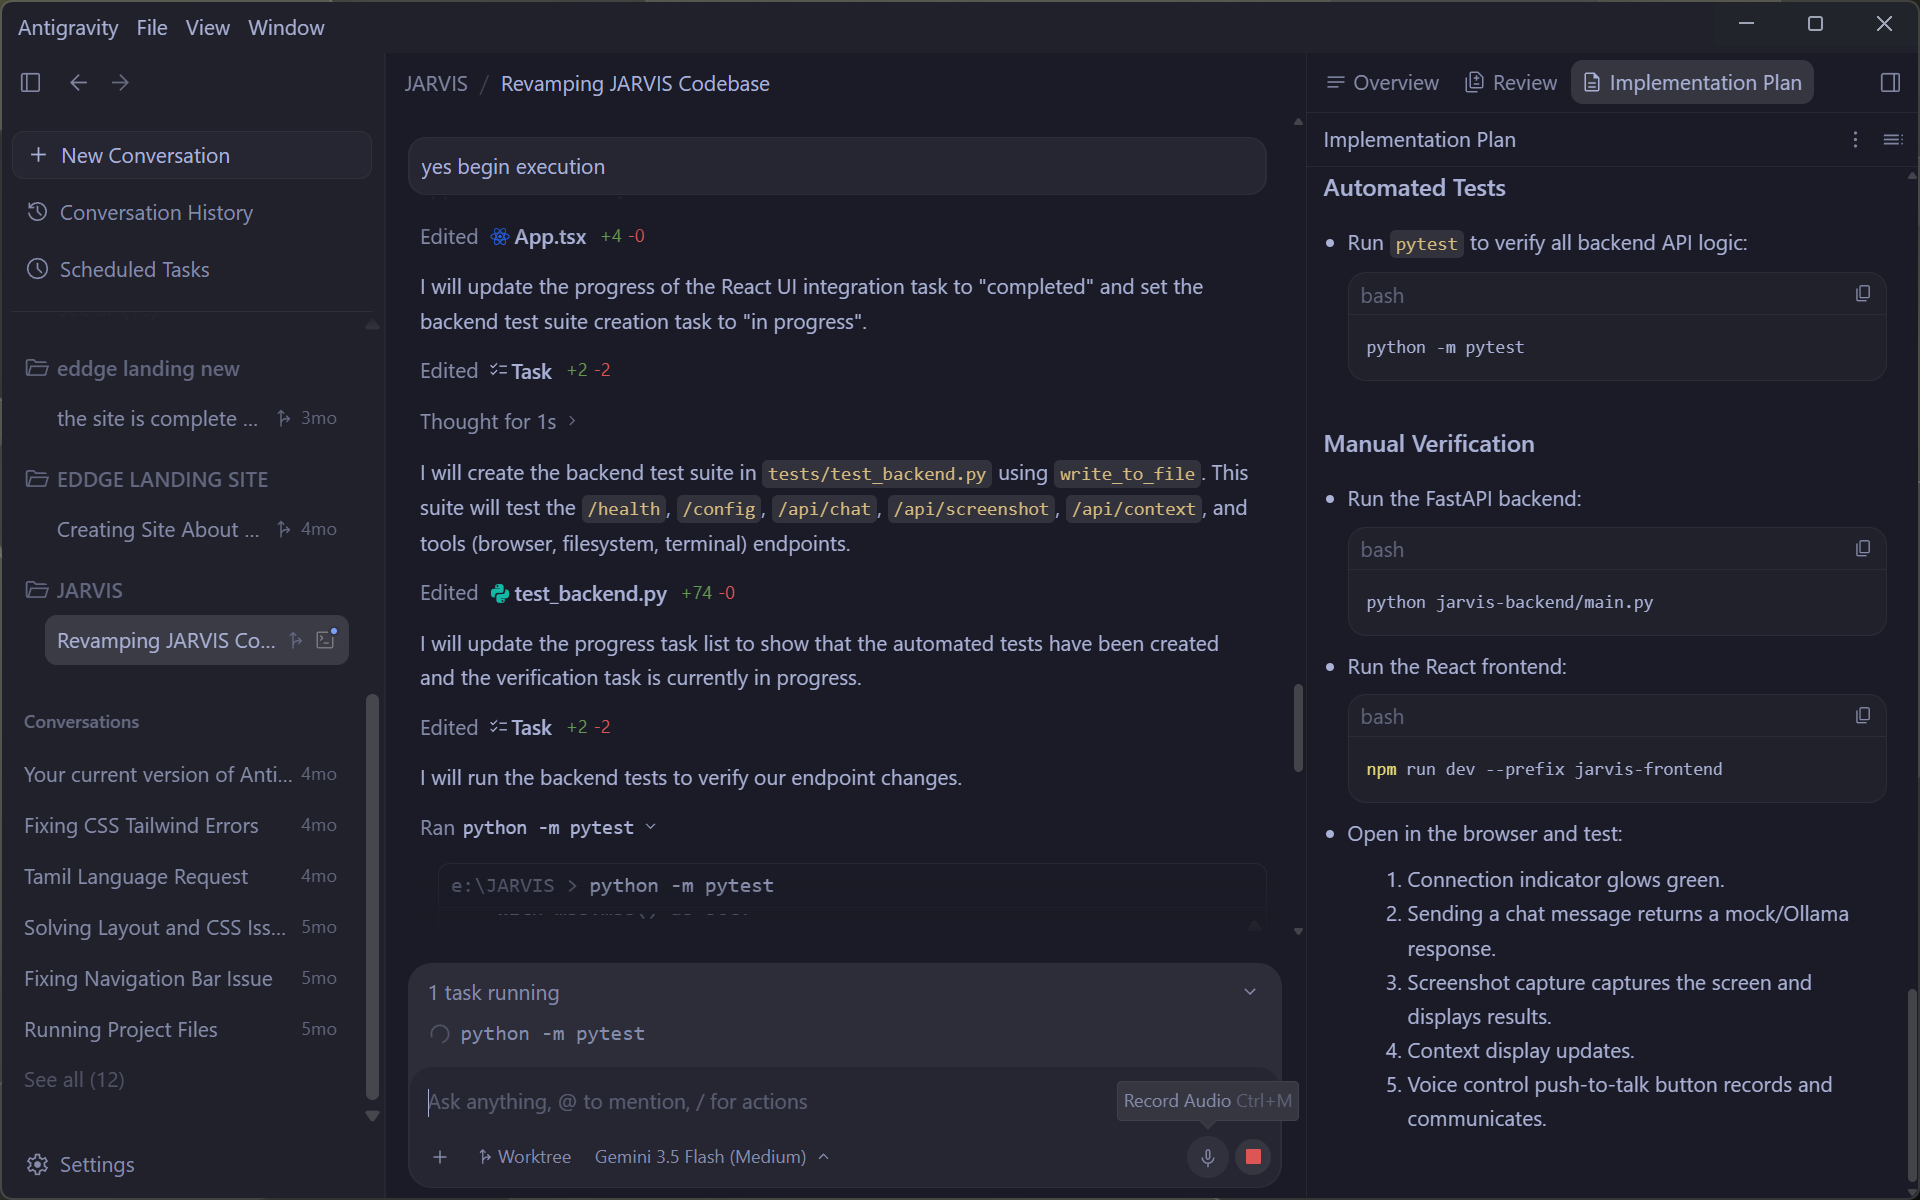
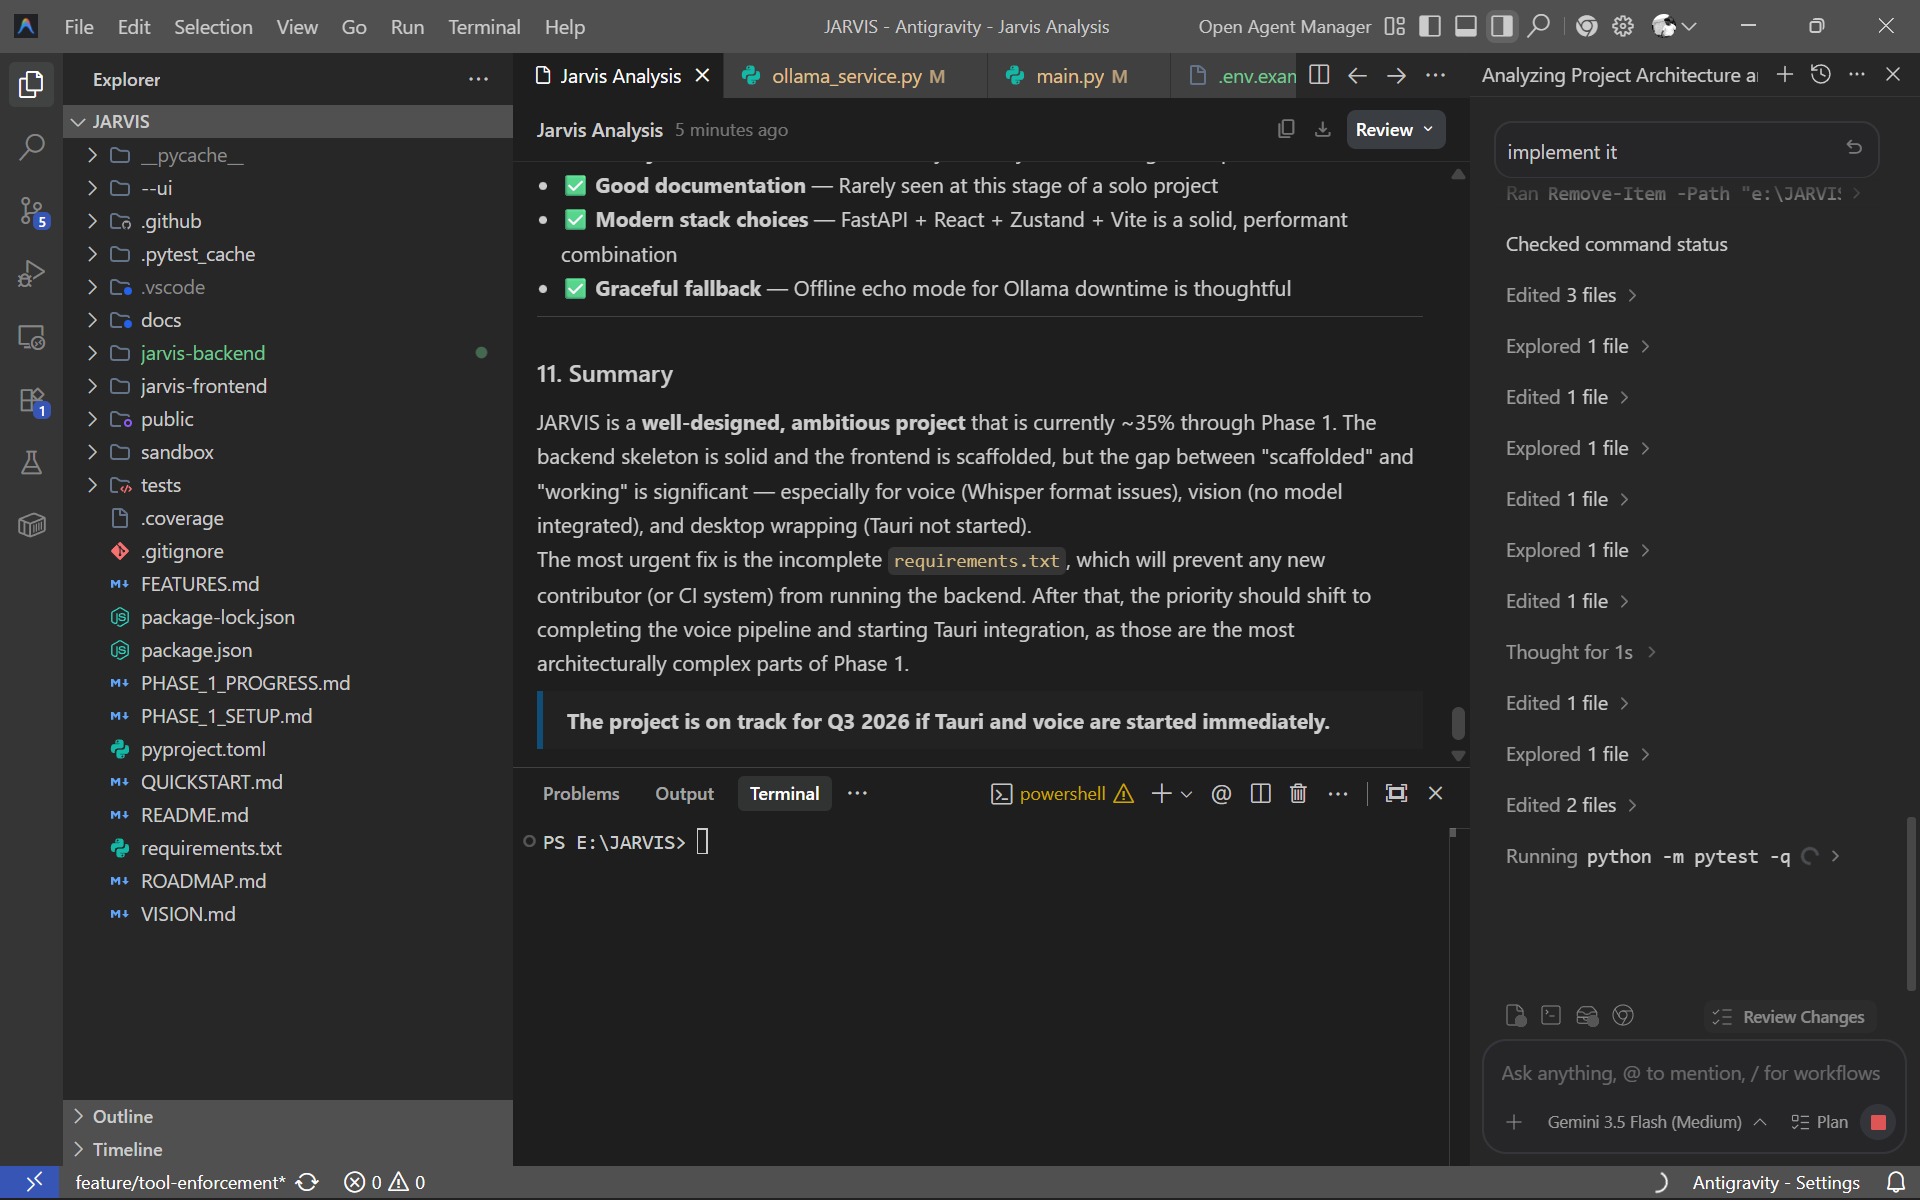
feat: initialize JARVIS backend MVP with FastAPI, Ollama integration, and desktop context services

Changed region(s): [[0.0, 0.3083, 1.0, 1.0], [0.0, 0.0, 1.0, 0.8633], [0.7188, 0.2775, 0.8438, 0.3392]]

diff --git a/jarvis-backend/main.py b/jarvis-backend/main.py
@@ -135,7 +135,7 @@ async def chat(request: ChatRequest):
     tool_used = None
     
     # Call Ollama service
-    response = ollama_service.chat(request.message, context_str)
+    response = await asyncio.to_thread(ollama_service.chat, request.message, context_str)
     
     # If Ollama offline, fallback to mock response
     if response is None:
@@ -172,7 +172,7 @@ async def voice_websocket(websocket: WebSocket):
                 audio_bytes = data["bytes"]
                 
                 # Transcribe audio bytes using Whisper
-                transcription = voice_service.transcribe_audio(audio_bytes)
+                transcription = await asyncio.to_thread(voice_service.transcribe_audio, audio_bytes)
                 if transcription and transcription.strip():
                     await websocket.send_json({
                         "type": "transcription",
@@ -181,7 +181,7 @@ async def voice_websocket(websocket: WebSocket):
                     
                     # Call LLM chat with the transcription
                     context_str = context_manager.format_for_llm()
-                    response_text = ollama_service.chat(transcription, context_str)
+                    response_text = await asyncio.to_thread(ollama_service.chat, transcription, context_str)
                     if not response_text:
                         response_text = f"Offline fallback. Heard: '{transcription}'"
                     
@@ -191,7 +191,7 @@ async def voice_websocket(websocket: WebSocket):
                     })
                     
                     # Convert response to speech audio bytes using TTS
-                    audio_response = voice_service.synthesize_speech(response_text)
+                    audio_response = await asyncio.to_thread(voice_service.synthesize_speech, response_text)
                     if audio_response:
                         await websocket.send_bytes(audio_response)
                 else:
@@ -208,7 +208,7 @@ async def voice_websocket(websocket: WebSocket):
                     break
                 
                 context_str = context_manager.format_for_llm()
-                response_text = ollama_service.chat(message, context_str)
+                response_text = await asyncio.to_thread(ollama_service.chat, message, context_str)
                 if not response_text:
                     response_text = f"Offline fallback. Received text: {message}"
                 
@@ -243,7 +243,7 @@ async def screenshot(analyze: bool = False):
         os.makedirs("public", exist_ok=True)
         save_path = os.path.join("public", "screenshot.png")
         
-        path = screenshot_service.capture_screenshot(save_path)
+        path = await asyncio.to_thread(screenshot_service.capture_screenshot, save_path)
         if not path:
             return {
                 "success": False,
@@ -255,7 +255,7 @@ async def screenshot(analyze: bool = False):
         analysis = None
         if analyze:
             # Analyze screenshot using ScreenshotService
-            analysis = screenshot_service.analyze_screenshot(path, "Describe what is on this screen")
+            analysis = await asyncio.to_thread(screenshot_service.analyze_screenshot, path, "Describe what is on this screen")
             
         # Return public web URL path
         return {
@@ -289,9 +289,11 @@ async def get_context():
         }
     """
     try:
-        active_window = context_manager.detect_active_window()
-        clipboard = context_manager.get_clipboard()
-        cursor = context_manager.get_cursor_position()
+        active_window, clipboard, cursor = await asyncio.gather(
+            asyncio.to_thread(context_manager.detect_active_window),
+            asyncio.to_thread(context_manager.get_clipboard),
+            asyncio.to_thread(context_manager.get_cursor_position)
+        )
         cursor_pos = (cursor[0], cursor[1]) if cursor else None
         
         await context_manager.update_context(

diff --git a/jarvis-backend/services/ollama_service.py b/jarvis-backend/services/ollama_service.py
@@ -14,6 +14,11 @@ class OllamaService:
         self.base_url = base_url
         self.model = "llama2"  # Default model
         self.conversation = []
+        self.system_prompt = (
+            "You are JARVIS, an intelligent desktop AI companion for developers and founders.\n"
+            "Your design is inspired by HeyClicky, but you are focused on productivity, coding, and startup workflows.\n"
+            "You operate locally via Ollama. Be concise, helpful, and direct."
+        )
     
     def chat(self, message: str, context: str = "") -> Optional[str]:
         """
@@ -21,27 +26,37 @@ class OllamaService:
         
         Args:
             message: User message
-            context: Optional context to prepend
+            context: Optional context to prepend to the system prompt
         
         Returns:
             Response text or None if error
         """
         try:
-            # Prepare context
-            full_message = f"{context}\n\n{message}" if context else message
-            
-            # Add to conversation
+            # Add the user message cleanly to conversation history
             self.conversation.append({
                 "role": "user",
-                "content": full_message
+                "content": message
             })
+            
+            # Construct the dynamic messages list starting with a system message
+            system_content = self.system_prompt
+            if context:
+                system_content += f"\n\n{context}"
+                
+            messages = [{
+                "role": "system",
+                "content": system_content
+            }]
+            
+            # Extend with current conversation history
+            messages.extend(self.conversation)
             
             # Call Ollama
             response = requests.post(
                 f"{self.base_url}/api/chat",
                 json={
                     "model": self.model,
-                    "messages": self.conversation,
+                    "messages": messages,
                     "stream": False
                 },
                 timeout=60
@@ -51,32 +66,44 @@ class OllamaService:
                 result = response.json()
                 reply = result["message"]["content"]
                 
-                # Add to conversation
+                # Add assistant response to conversation history
                 self.conversation.append({
                     "role": "assistant",
                     "content": reply
                 })
                 
-                # Keep conversation bounded
+                # Keep conversation bounded to last 20 messages (10 turns)
                 if len(self.conversation) > 20:
                     self.conversation = self.conversation[-20:]
                 
                 return reply
             else:
                 print(f"❌ Ollama error: {response.status_code}")
+                # Remove the user message we just added since it failed to get a response
+                if self.conversation:
+                    self.conversation.pop()
                 return None
         
         except requests.ConnectionError:
             print("❌ Cannot connect to Ollama. Ensure Ollama is running: ollama serve")
+            if self.conversation:
+                self.conversation.pop()
             return None
         except Exception as e:
             print(f"❌ Ollama error: {e}")
+            if self.conversation:
+                self.conversation.pop()
             return None
     
     def set_model(self, model: str):
         """Set the model to use"""
         self.model = model
+        
+    def set_system_prompt(self, prompt: str):
+        """Set custom system prompt"""
+        self.system_prompt = prompt
     
     def reset_conversation(self):
         """Clear conversation history"""
         self.conversation = []
+
